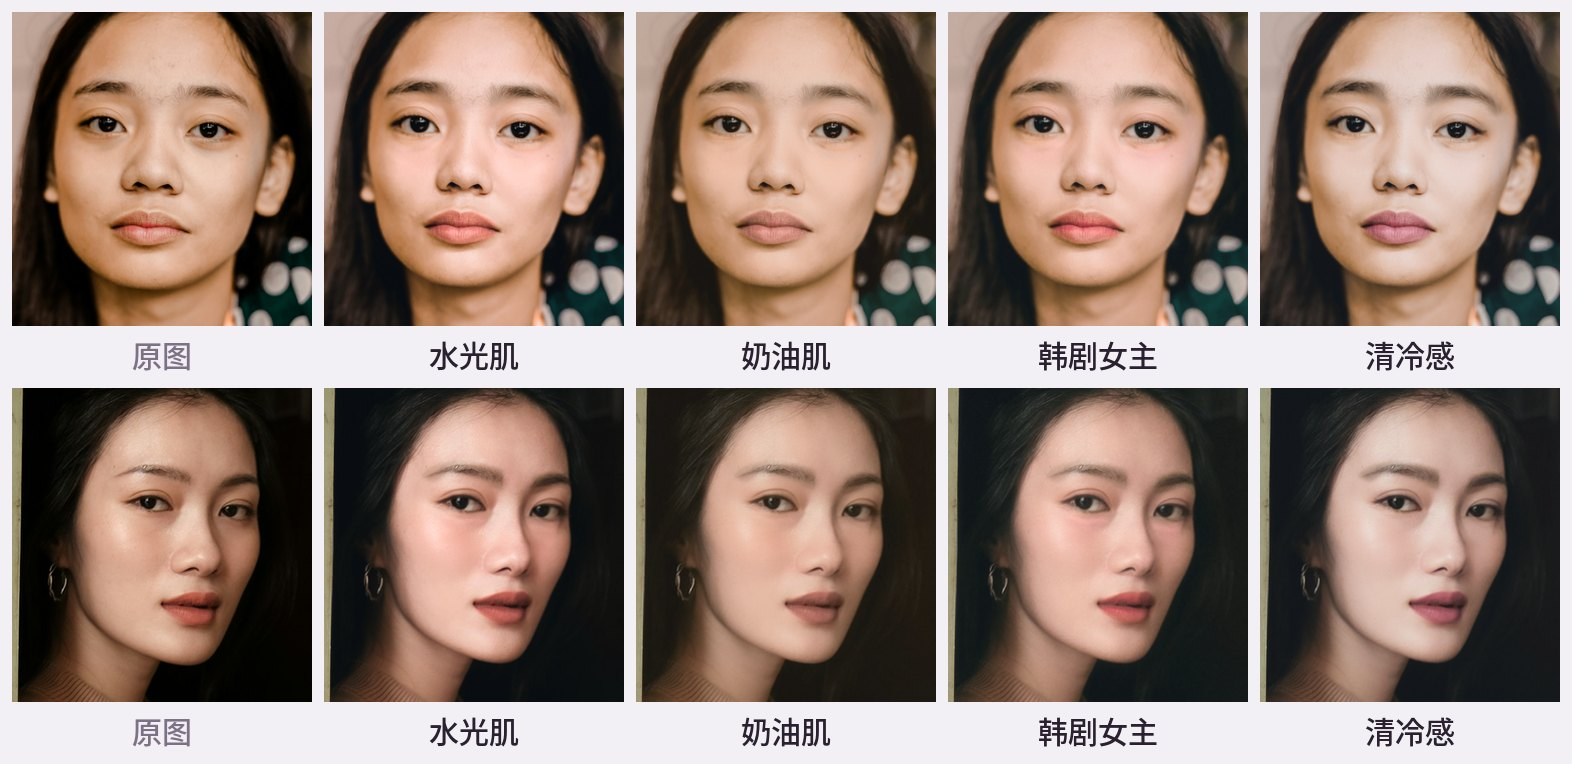
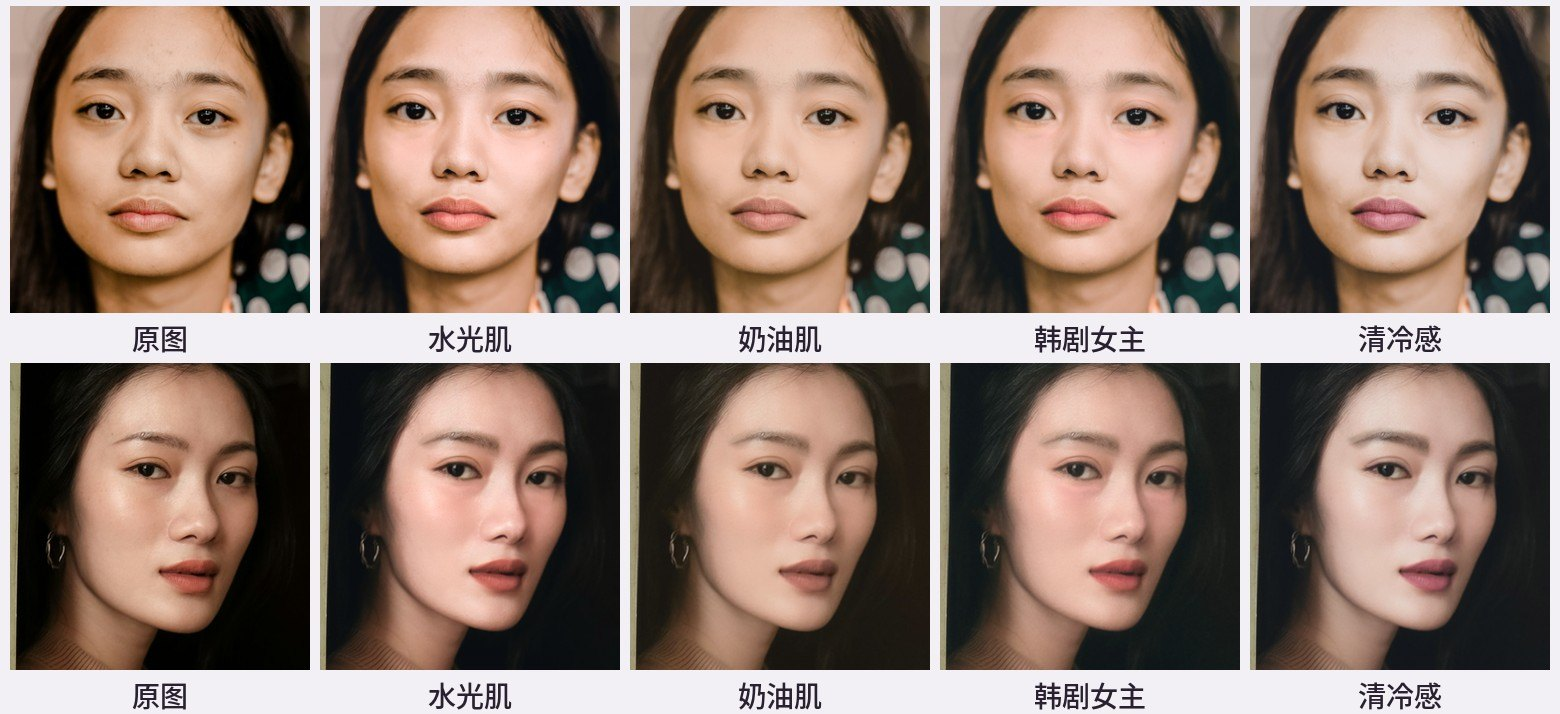
Part 9: brow shapes, adaptive blush, faster close-ups, Windows start script
- brows: straight brow for K-drama, lifted tail for cool tone
- blush is reduced automatically on cheeks that are already flushed
- big close-ups are retouched on a reduced copy and the change is added
  back at full size (full-res export ~2s -> ~0.9s, original detail kept)
- glasses guard keeps only long lines, so moles and pimples near the
  eyes are removed again
- start.bat: one-click setup and launch on Windows

Claude-Session: https://claude.ai/code/session_01FdC6Z7UUHnsXNkcQG1pK74

diff --git a/seoulglow/presets.py b/seoulglow/presets.py
@@ -72,6 +72,7 @@ class Preset:
     liner_drop: float      # + = tail points down (puppy eye), − = lifted
     shadow_outer: float    # smoky outer corner
     blush_nose: float      # blush on the nose tip
+    brow_shape: float      # + straight brow (一字眉), − lifted tail
     # skin clean-up (follows the 磨皮 slider)
     dark_circles: float
     folds: float
@@ -107,7 +108,7 @@ PRESETS: dict[str, Preset] = {p.id: p for p in [
         blush_rgb=(244, 150, 140), blush=0.9, blush_height=0.6, blush_spread=1.3,
         aegyo=0.5, eye_brighten=0.6, teeth=0.6,
         brow_rgb=(122, 94, 80), brow=0.45, shadow_rgb=(238, 160, 132), shadow=0.6, liner=0.3,
-        liner_tail=0.03, liner_drop=0.0, shadow_outer=0.0, blush_nose=0.5,
+        liner_tail=0.03, liner_drop=0.0, shadow_outer=0.0, blush_nose=0.5, brow_shape=0.4,
         dark_circles=0.75, folds=0.6,
         grade=Grade(exposure=0.10, contrast=0.02, highlights=-0.08, shadows=0.22,
                     temperature=-0.08, tint=0.06, saturation=-0.08, vibrance=0.08, fade=0.0,
@@ -125,7 +126,7 @@ PRESETS: dict[str, Preset] = {p.id: p for p in [
         blush_rgb=(226, 150, 120), blush=0.75, blush_height=0.75, blush_spread=1.25,
         aegyo=0.35, eye_brighten=0.45, teeth=0.5,
         brow_rgb=(128, 100, 84), brow=0.6, shadow_rgb=(190, 132, 104), shadow=0.85, liner=0.3,
-        liner_tail=0.03, liner_drop=0.0, shadow_outer=0.25, blush_nose=0.0,
+        liner_tail=0.03, liner_drop=0.0, shadow_outer=0.25, blush_nose=0.0, brow_shape=0.3,
         dark_circles=0.75, folds=0.6,
         grade=Grade(exposure=0.18, contrast=-0.18, highlights=-0.30, shadows=0.25,
                     temperature=0.07, tint=0.04, saturation=-0.10, fade=0.05,
@@ -143,7 +144,7 @@ PRESETS: dict[str, Preset] = {p.id: p for p in [
         blush_rgb=(240, 130, 150), blush=0.85, blush_height=0.36, blush_spread=1.05,
         aegyo=1.0, eye_brighten=0.75, teeth=0.6,
         brow_rgb=(128, 98, 84), brow=0.4, shadow_rgb=(236, 140, 150), shadow=0.6, liner=0.6,
-        liner_tail=0.06, liner_drop=0.035, shadow_outer=0.0, blush_nose=0.8,
+        liner_tail=0.06, liner_drop=0.035, shadow_outer=0.0, blush_nose=0.8, brow_shape=0.9,
         dark_circles=0.75, folds=0.6,
         grade=Grade(exposure=0.12, contrast=-0.12, highlights=-0.20, shadows=0.20,
                     temperature=0.04, tint=0.08, saturation=-0.08, vibrance=0.05, fade=0.06,
@@ -161,7 +162,7 @@ PRESETS: dict[str, Preset] = {p.id: p for p in [
         blush_rgb=(214, 164, 160), blush=0.25, blush_height=0.7, blush_spread=0.9,
         aegyo=0.0, eye_brighten=0.5, teeth=0.6,
         brow_rgb=(84, 72, 70), brow=0.8, shadow_rgb=(150, 118, 118), shadow=0.8, liner=0.85,
-        liner_tail=0.09, liner_drop=-0.03, shadow_outer=1.0, blush_nose=0.0,
+        liner_tail=0.09, liner_drop=-0.03, shadow_outer=1.0, blush_nose=0.0, brow_shape=-0.8,
         dark_circles=0.8, folds=0.6,
         grade=Grade(exposure=0.10, contrast=0.02, highlights=-0.15, shadows=0.18,
                     temperature=-0.15, tint=0.02, saturation=-0.12, fade=0.07,

diff --git a/seoulglow/engine.py b/seoulglow/engine.py
@@ -6,6 +6,7 @@ import time
 from dataclasses import dataclass, field
 from typing import Any, Mapping
 
+import cv2
 import numpy as np
 
 from . import color, makeup, reshape, skin
@@ -16,6 +17,7 @@ from .imageio import decode_image, encode_jpeg, to_float, to_uint8
 from .masks import FaceRegions
 from .presets import LIP_SHADES, Preset, get_preset
 
+WORK_IOD = 200.0   # faces larger than this (eye distance, px) are retouched at reduced size
 MIN_IOD_PX = 16.0  # faces smaller than this are too tiny for landmark-based edits
 
 _UNSET: Any = object()
@@ -143,7 +145,8 @@ def _beautify_face(img: np.ndarray, face: Face, p: Params) -> np.ndarray:
 
     eyes = F.RIGHT_EYE + F.LEFT_EYE
     brows = F.RIGHT_BROW + F.LEFT_BROW
-    img = _local(img, face, brows, 0.12 * iod, lambda s, f, r: makeup.brows(s, f, r, pr.brow_rgb, pr.brow * m))
+    img = _local(img, face, brows, 0.12 * iod, lambda s, f, r: makeup.brows(
+        s, f, r, pr.brow_rgb, pr.brow * m, shape=pr.brow_shape))
     img = _local(img, face, eyes + brows, 0.15 * iod, lambda s, f, r: makeup.eyeshadow(
         s, f, r, pr.shadow_rgb, pr.shadow * m, outer=pr.shadow_outer))
     img = _local(img, face, eyes, 0.12 * iod, lambda s, f, r: makeup.eyeliner(
@@ -170,7 +173,20 @@ def process(rgb: np.ndarray, preset_id: str | None, adj: Adjustments | None,
         if x1 - x0 < 8 or y1 - y0 < 8:
             continue
         crop = np.ascontiguousarray(img[y0:y1, x0:x1])
-        img[y0:y1, x0:x1] = _beautify_face(crop, face.shifted(-x0, -y0), p)
+        local = face.shifted(-x0, -y0)
+        if face.iod > WORK_IOD * 1.15:
+            # Big close-up: compute the retouch on a smaller copy and add the *change*
+            # back at full size. The photo's own fine detail is untouched, and the
+            # cost no longer grows with the size of the face.
+            scale = WORK_IOD / face.iod
+            small = cv2.resize(crop, (max(8, round(crop.shape[1] * scale)), max(8, round(crop.shape[0] * scale))),
+                               interpolation=cv2.INTER_AREA)
+            sx, sy = small.shape[1] / crop.shape[1], small.shape[0] / crop.shape[0]
+            delta = _beautify_face(small.copy(), Face(local.landmarks * np.array([sx, sy])), p) - small
+            delta = cv2.resize(delta, (crop.shape[1], crop.shape[0]), interpolation=cv2.INTER_CUBIC)
+            img[y0:y1, x0:x1] = np.clip(crop + delta, 0.0, 1.0)
+        else:
+            img[y0:y1, x0:x1] = _beautify_face(crop, local, p)
 
     for face in usable:  # geometry last, so makeup moves together with the face
         k = face.frontalness

diff --git a/seoulglow/makeup.py b/seoulglow/makeup.py
@@ -96,6 +96,11 @@ def blush(img: np.ndarray, face: Face, regions: FaceRegions, color: tuple[int, i
 
     lab = ops.to_lab(img)
     target = ops.rgb255_to_lab(color)
+    # Cheeks that are already flushed (sun, natural redness) need far less blush.
+    total = float(weight.sum())
+    if total > 1.0:
+        cheek_a = float((lab[..., 1] * weight).sum() / total)
+        weight = weight * float(np.clip((float(target[1]) - cheek_a) / 14.0, 0.25, 1.0))
     w = weight * 0.38  # a diffused flush; much stronger reads as a rash on real photos
     lab[..., 1] += (target[1] - lab[..., 1]) * w
     lab[..., 2] += (target[2] - lab[..., 2]) * w
@@ -104,7 +109,7 @@ def blush(img: np.ndarray, face: Face, regions: FaceRegions, color: tuple[int, i
 
 
 def brows(img: np.ndarray, face: Face, regions: FaceRegions, color: tuple[int, int, int],
-          amount: float) -> np.ndarray:
+          amount: float, shape: float = 0.0) -> np.ndarray:
     """韩系眉: fill and soften the brows toward a soft brown (only ever darkens)."""
     if amount <= 0.0:
         return img
@@ -112,6 +117,19 @@ def brows(img: np.ndarray, face: Face, regions: FaceRegions, color: tuple[int, i
     mask = np.maximum(fill_poly(regions.shape, face.pts(F.RIGHT_BROW)),
                       fill_poly(regions.shape, face.pts(F.LEFT_BROW)))
     mask = blur(dilate(mask, 0.012 * iod), 0.018 * iod) * float(np.clip(amount, 0.0, 1.0))
+    # shape > 0: straight "一字眉" — fill the hollow under the arch so the lower edge is flat.
+    # shape < 0: a slightly lifted, longer tail for a cooler, more defined brow.
+    extra = np.zeros(regions.shape, np.float32)
+    for side, brow in (("right", F.RIGHT_BROW), ("left", F.LEFT_BROW)):
+        lower, upper = face.pts(brow[:5]), face.pts(brow[5:])      # outer→inner, inner→outer
+        if shape > 0.0:
+            chord = np.linspace(lower[-1], lower[0], 5) + face.y_axis * 0.012 * iod
+            extra = np.maximum(extra, fill_poly(regions.shape, np.vstack([lower, chord])))
+        elif shape < 0.0:
+            tip = upper[-1] + face.outward(side) * 0.06 * iod - face.y_axis * 0.025 * iod
+            extra = np.maximum(extra, fill_poly(regions.shape, np.vstack([upper[-2], tip, lower[0], lower[1]])))
+    if shape != 0.0:
+        mask = np.maximum(mask, blur(extra, 0.012 * iod) * float(np.clip(amount * abs(shape), 0.0, 1.0)))
     lab = ops.to_lab(img)
     target = ops.rgb255_to_lab(color)
     lightness = lab[..., 0]

diff --git a/seoulglow/masks.py b/seoulglow/masks.py
@@ -234,6 +234,12 @@ class FaceRegions:
         lum = ops.luminance(self.img)
         detail = np.abs(lum - ops.gaussian(lum, max(1.5, 0.03 * iod)))
         lines = smoothstep(0.045, 0.09, detail) * zone
+        # Keep only long structures: a frame runs across the eye area, a mole or pimple
+        # is a small blob and must stay in the skin mask so it can be removed.
+        count, labels, stats, _ = cv2.connectedComponentsWithStats((lines > 0.5).astype(np.uint8), connectivity=8)
+        long_enough = np.maximum(stats[:, cv2.CC_STAT_WIDTH], stats[:, cv2.CC_STAT_HEIGHT]) >= 0.3 * iod
+        long_enough[0] = False
+        lines = lines * long_enough[labels]
         return np.clip(blur(dilate(lines, max(1.0, 0.012 * iod)), 0.01 * iod), 0.0, 1.0)
 
     # -- adaptive skin color model ------------------------------------------ #

diff --git a/README.md b/README.md
@@ -40,6 +40,10 @@
 
 需要 Python 3.10+。
 
+**Windows 最简单的方式**：下载本项目后双击 `start.bat`，它会自动安装依赖、下载人脸模型并打开浏览器。
+
+手动方式：
+
 ```bash
 pip install -r requirements.txt
 python scripts/download_models.py     # 下载人脸模型（约 3.6 MB）
@@ -100,7 +104,7 @@ docker run -p 8000:8000 --env-file .env seoulglow
 - **认得出眼镜和侧脸**：眼睛周围细而高对比的线条（镜框、碎发）会从皮肤蒙版里排除，不会被当成痘痘磨掉；脸转得越侧，妆容和变形越弱，纯侧脸只做皮肤和调色，因为侧脸的关键点不可靠。
 - **先修颜、后变形**：所有妆容用原始关键点画好，最后再统一做瘦脸大眼，妆容会跟着脸一起动，不会错位。
 - **痘痘也是皮肤**：肤色模型会把痘痘当成"不是皮肤"排除掉，所以对肤色概率图做低分辨率形态学闭运算，把小洞补上。
-- **快**：小区域效果（唇、眼、牙）只在局部框里计算；调色用 LUT（比逐像素计算快约 4.5 倍）；调节滑块时只传 1280px 预览图（约 0.2–0.6 秒），保存时才处理高清图。
+- **快**：小区域效果（唇、眼、牙）只在局部框里计算；调色用 LUT（比逐像素计算快约 4.5 倍）；调节滑块时只传 1280px 预览图（约 0.2–0.6 秒），保存时才处理高清图（约 1 秒）；脸很大的特写会缩小后计算，再把「变化量」加回原图，原图的细节不受损。
 - **不悄悄偏色**：浮点 RGB↔Lab 转一次会有约 1/255 的误差，转十次能到 8/255。所以每个效果只把真正修改过的像素转回 RGB，其余像素保持原样。
 
 ## 项目结构
@@ -141,7 +145,8 @@ pytest -q
 - [x] 第 6 部分：自动化测试 + GitHub Actions + Docker + 接口文档
 - [x] 第 7 部分：按反馈调整：嘴唇不再发白、磨皮保留更多皮肤纹理、水光肌改成油润的真实高光、去掉韩式证件照
 - [x] 第 8 部分：四种风格各有自己的妆容画法（参考美妆教程）；戴眼镜不再抹掉镜框；侧脸自动不上妆、不变形；多人合照实测
-- [ ] 之后：大脸特写的高清导出提速（半分辨率计算 + 细节回填）、本地换背景（人像分割）
+- [x] 第 9 部分：眉形（韩剧女主一字眉、清冷感挑眉尾）、腮红按原本肤色自动减量、大脸特写提速（缩小计算、把变化量加回原图）、Windows 一键启动
+- [ ] 接下来：用更多真实照片测试，再按结果调整
 
 ## 隐私
 
